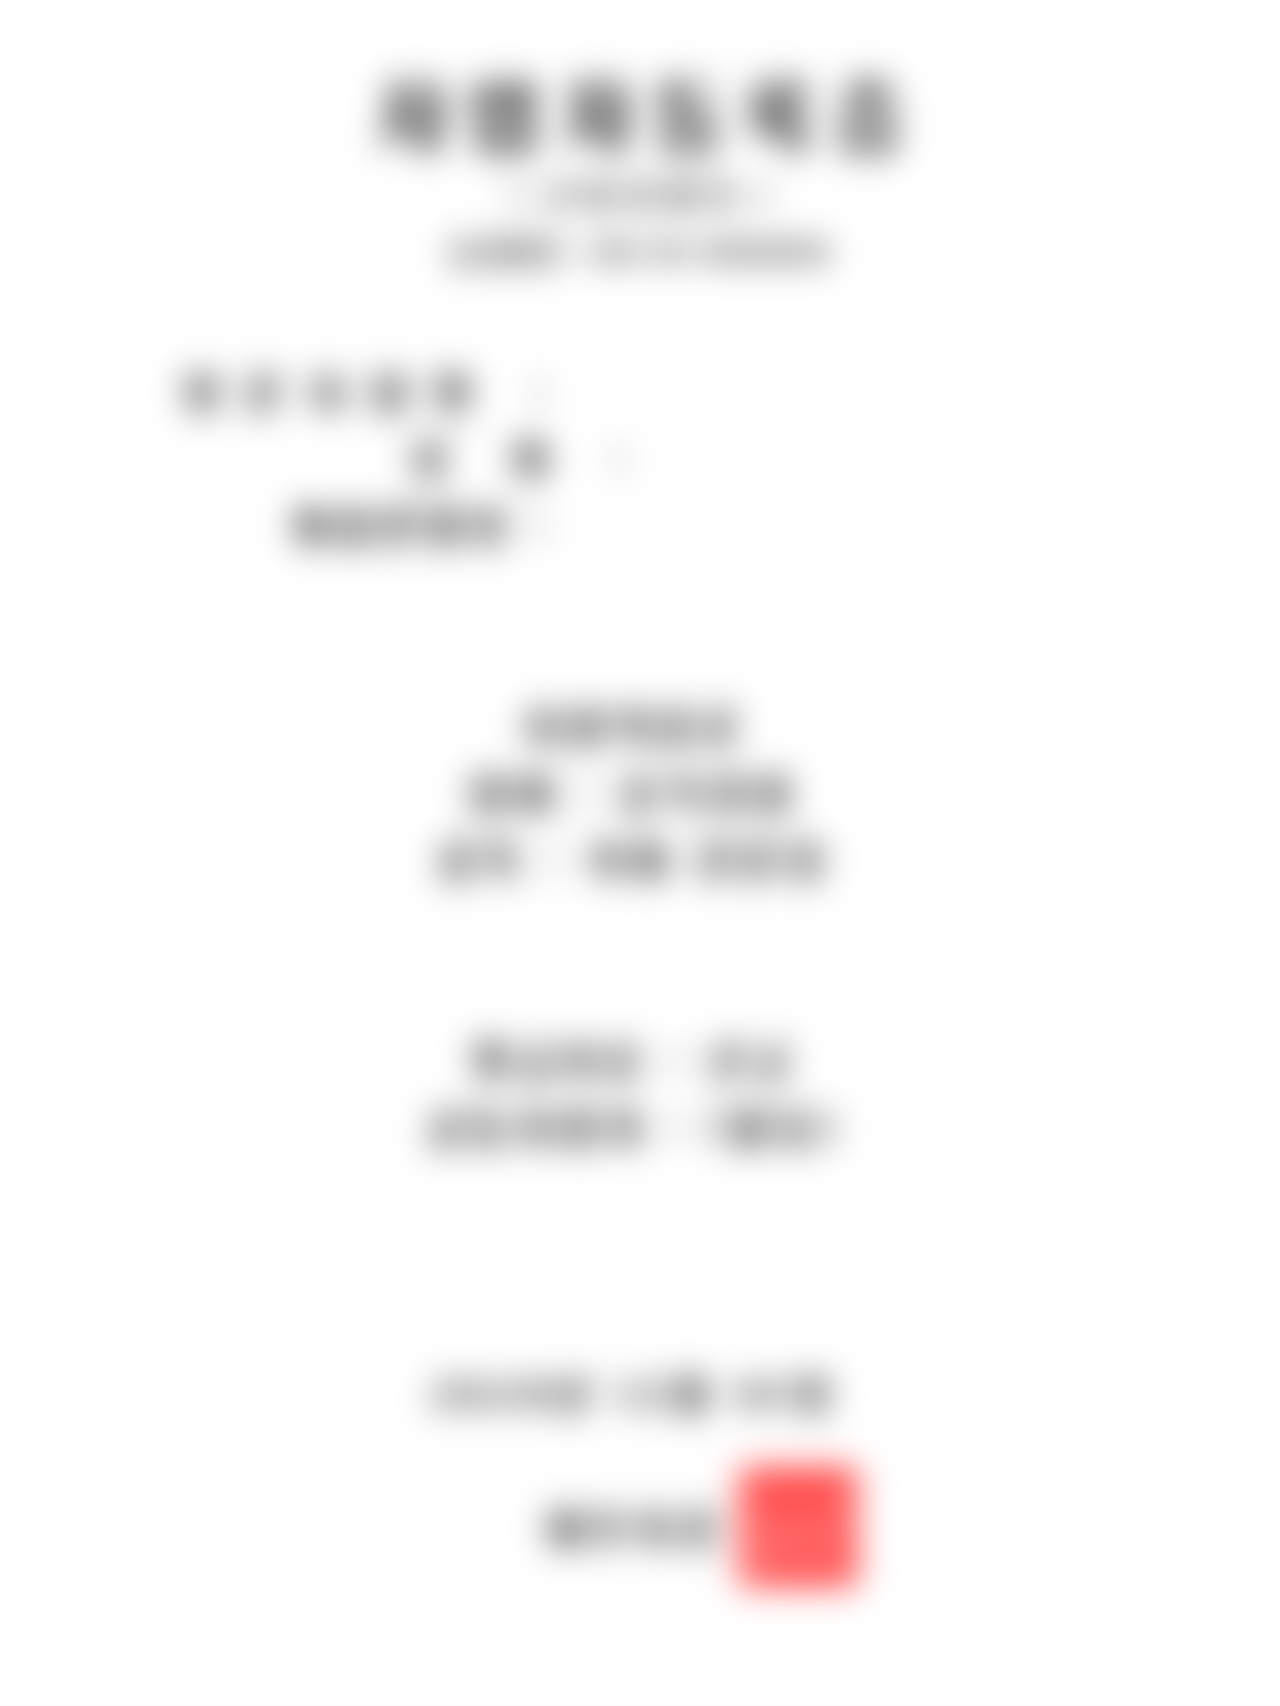
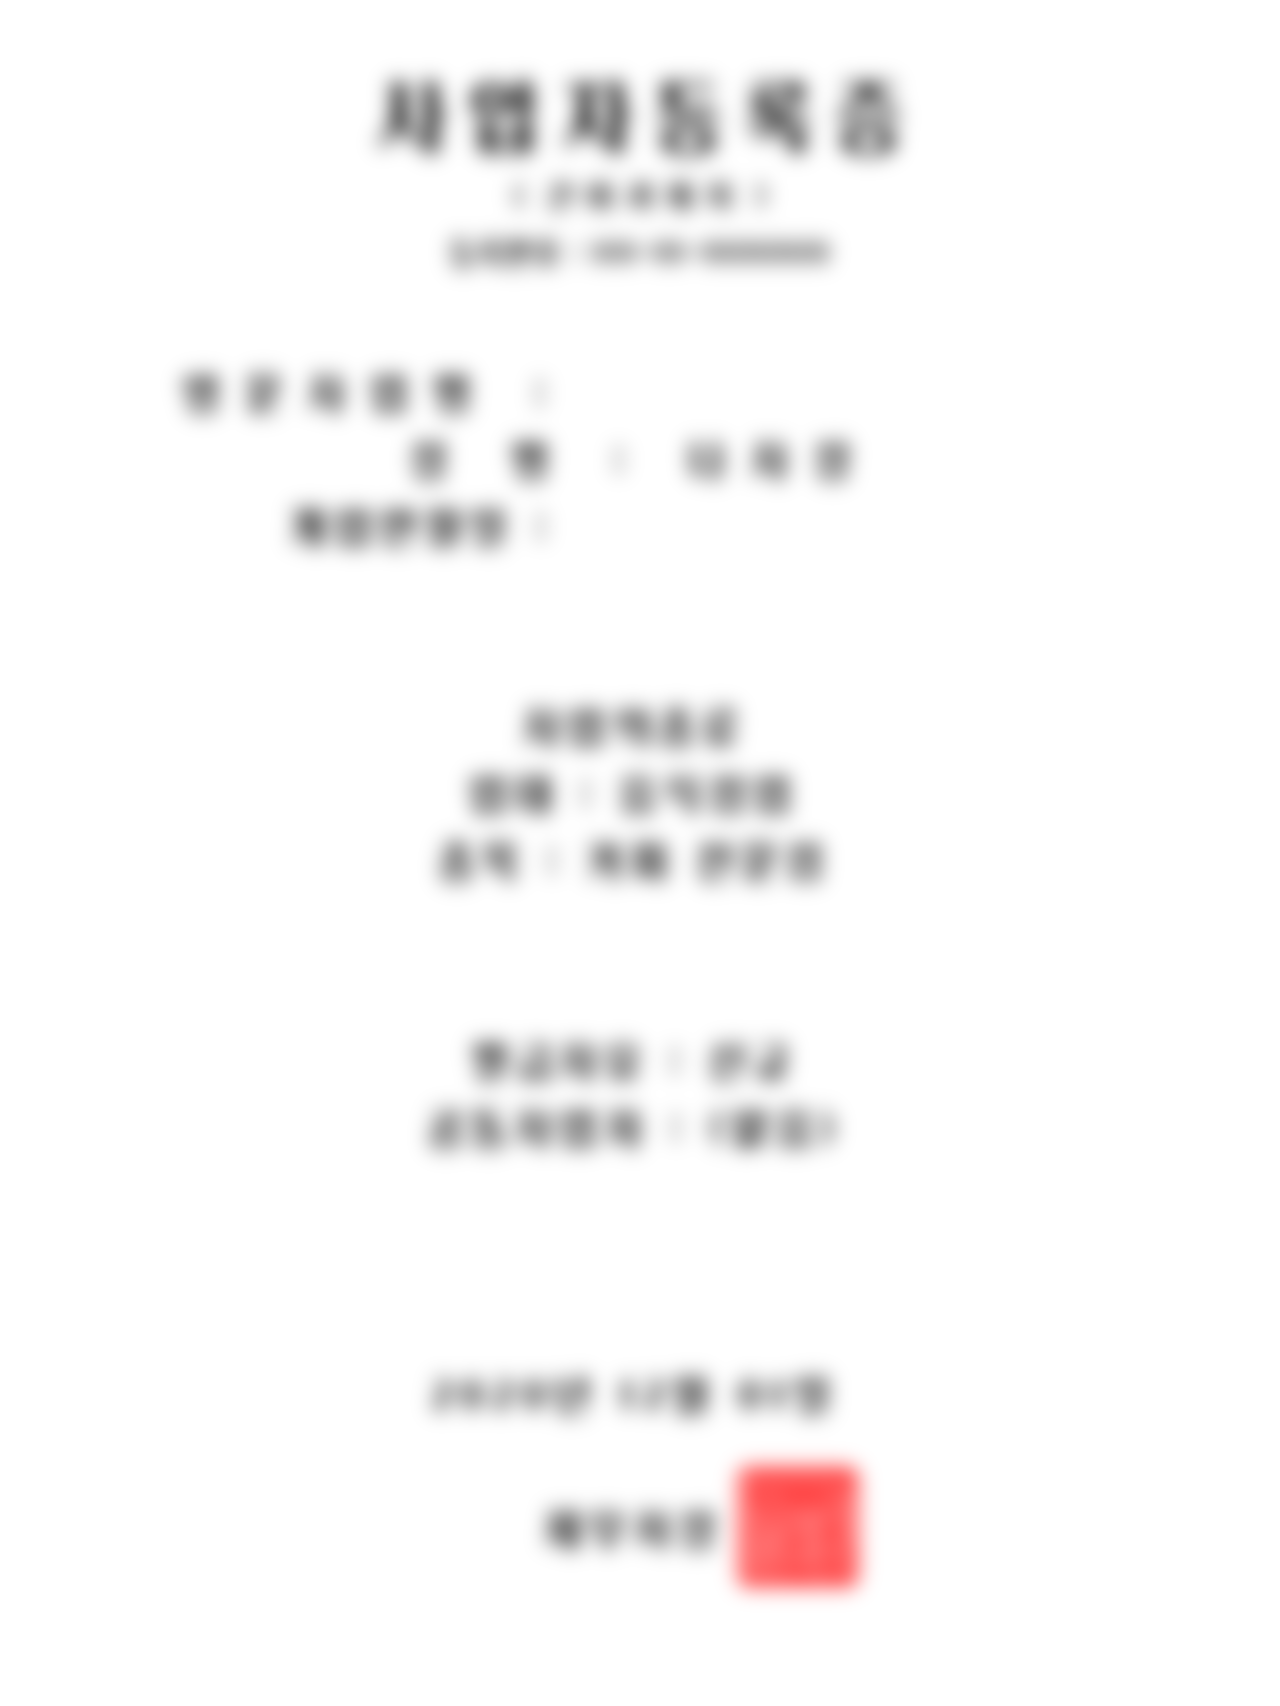
final 003

diff --git a/exam/exam-story-4.html b/exam/exam-story-4.html
@@ -26,12 +26,14 @@
                 시험지가 보관된 금고는 <b>최치열의 지문</b>으로만 열립니다.<br></br>
 
                 범인은 흔적을 남기기 마련입니다. <br>
-                지문을 채취했다면 분명 최치열의 자리를 다녀간 흔적이 있을 것입니다. <br></br>
+                지문을 채취했다면 분명 최치열의 자리를 다녀간 흔적 또는 본인의 자리에 단서가 있을 것입니다. <br></br>
                 
-                탐정수첩에 있는 용의자들의 특징과 사무실에 있는 단서를 통해 지문을 확보한 용의자들을 알아봐 주세요. <br></br>
+                제가 조사한 바로는 지문을 확보한 용의자는 <b>3명</b>입니다. <br></br>
 
                 지문을 확보했다면 <b>O로 표시</b>하고, <br>
-                확보하지 못했다면 <b>X로 표시</b>해 주세요. 
+                확보하지 못했다면 <b>X로 표시</b>해 주세요. <br></br>
+                
+                <span class="small-ref-text"><b>X표시가 되었다고 해서 용의선상에서 제외하시면 안됩니다. <br> 표를 전부 채워주세요.</b></span>
             </p>
 
             <div class="next-story-button">

diff --git a/laptop/laptop-story-8.html b/laptop/laptop-story-8.html
@@ -32,7 +32,7 @@
                 최백수는 제가 조사한 바로 피해자인 주인공과 마주치는 일이 많았다고 합니다.<br>
                 그녀가 주인공 씨가 자리를 비울 때마다 몰래 그의 노트북을 만지는 장면을 목격한 사람들이 다수 있는 것으로 확인했습니다. <br></br>
 
-                최백수의 독서실 자리에는 <b>두 개의 타임테이블</b>이 존재한다고 합니다. <br>
+                최백수의 독서실 자리에는 <b>두 개의 일정표</b>가 존재한다고 합니다. <br>
 
                 최백수의 알리바이를 찾아 비밀번호를 입력하세요.<br></br>
             </p>

diff --git a/laptop/laptop-story-1.html b/laptop/laptop-story-1.html
@@ -28,11 +28,11 @@
             </p>
 
             <p> 
-                카페 창고에는 주인만 열람할 수 있는 CCTV가 있습니다.<br>
+                <b>리슨카페의 창고</b>에는 주인만 열람할 수 있는 CCTV가 있습니다.<br>
                 이 CCTV를 확인하면 <b>범행 시간</b>을 확인할 수 있을 것입니다.<br></br>
 
                 카페 창고에 있는 물건들을 활용해 CCTV 파일을 <br> 
-                열 수 있는 아이디와 비밀번호를 찾으세요.  <br></br>
+                열 수 있는 <b>아이디와 비밀번호</b>를 찾으세요.  <br></br>
                 <br>
             </p>
 

diff --git a/exam/exam-story-3.html b/exam/exam-story-3.html
@@ -28,7 +28,9 @@
                 사무실에 있는 단서들을 이용해 용의자들의 종교가 <b>최치열과 일치하는지</b> 확인해 주세요. <br></br>
                 
                 일치한다면 <b>O로 표시</b>하고, <br>
-                일치하지 않는다면 <b>X로 표시</b>해 주세요. 
+                일치하지 않는다면 <b>X로 표시</b>해 주세요. <br></br>
+                
+                <span class="small-ref-text"><b>X표시가 되었다고 해서 용의선상에서 제외하시면 안됩니다. <br> 표를 전부 채워주세요.</b></span>
             </p>
 
             <div class="next-story-button">

diff --git a/spy/spy-story-1.html b/spy/spy-story-1.html
@@ -38,7 +38,7 @@
                 최보안은 L사의 전산팀 막내로 선배들의 업무와 온갖 잡일을 도맡아 하고 있습니다. <br>
                 정규직 전환을 약속받았으나 올해도 정규직 전환에 실패합니다.<br></br>
 
-                최보안이 다니는 <b>너 내 도도독 독서실</b>에서 최보안의 자리를 찾아주세요. <br> 
+                최보안이 다니는 <b>너 내 도도독 독서실</b>에서 최보안의 자리는 PAOLA 자리입니다. <br> 
                 거기에 있는 기업 정보 자료를 확인하여 단서를 찾아 비밀번호를 입력하세요. 
             </p>
 

diff --git a/exam/exam-story-1.html b/exam/exam-story-1.html
@@ -29,7 +29,9 @@
 
                 그 지도와 함께 있는 단서를 이용해서 마스터마인드 학원을 기준으로 <br> 
                 <b>3km 반경 내</b>에 거주하는 사람은 <b>O로 표시</b>하고, <br>
-                그 외 지역에 거주하는 사람은 <b>X로 표시</b>해 주세요. 
+                그 외 지역에 거주하는 사람은 <b>X로 표시</b>해 주세요. <br></br>
+                
+                <span class="small-ref-text"><b>X표시가 되었다고 해서 용의선상에서 제외하시면 안됩니다. <br> 표를 전부 채워주세요.</b></span>
 
             </p>
 

diff --git a/exam/exam-story-5.html b/exam/exam-story-5.html
@@ -29,7 +29,9 @@
                 예상 범행 시간에 <b>학원에 있었거나 방문한 용의자</b>가 있는지 알아봐 주세요. <br></br>
 
                 예상 범행 시간에 있었다면 <b>O로 표시</b>하고, <br>
-                없었다면 <b>X로 표시</b>해 주세요. 
+                없었다면 <b>X로 표시</b>해 주세요. <br></br>
+                
+                <span class="small-ref-text"><b>X표시가 되었다고 해서 용의선상에서 제외하시면 안됩니다. <br> 표를 전부 채워주세요.</b></span>
             </p>
 
             <div class="next-story-button">

diff --git a/exam/exam-story-2.html b/exam/exam-story-2.html
@@ -26,7 +26,9 @@
                 더 자세하게 추리를 하려면 용의자의 성별을 확인해 보는 것이 좋을 것 같습니다.<br></br>
 
                 탐정수첩에 제공해드린 <b>용의자 정보</b>를 확인하여 여자면 <b>O로 표시</b>하고, <br>
-                남자면 <b>X로 표시</b>해 주세요. 
+                남자면 <b>X로 표시</b>해 주세요. <br></br>
+                
+                <span class="small-ref-text"><b>X표시가 되었다고 해서 용의선상에서 제외하시면 안됩니다. <br> 표를 전부 채워주세요.</b></span>
 
             </p>
 

diff --git a/laptop/laptop-story-9.html b/laptop/laptop-story-9.html
@@ -23,8 +23,9 @@
         <section>
 
             <p> 
-                최백수는 주인공 <br></br>
-                
+                주인공은 노트북을 자신의 목숨같이 아꼈습니다. <br>
+                그 사실을 안 최백수는 주인공과 같이 노트북에 관심이 있는 척하며 <b>주인공과 가까워지려는 의도</b>로 접근한 것이었습니다. <br></br>
+
                 지금까지 획득한 단서들을 가지고 저에게 찾아와 공유해 주세요.<br></br>
 
                 제가 드리는 힌트를 가지고 확실한 범인을 찾으세요.<br></br>

diff --git a/laptop/laptop-story-7.html b/laptop/laptop-story-7.html
@@ -27,7 +27,7 @@
             </p>
             <img src="laptop-puzzle-assets/laptop-kim-message.png" class="evidence-images">
             <p> 
-                김학생은 범행이 일어나기 전, 타사에 합격되어 다음 주 중에 출근을 앞두고 있던 것으로 보입니다.<br></br>
+                김학생은 범행이 일어나기 전, <b>타사에 합격</b>되어 다음 주 중에 출근을 앞두고 있던 것으로 보입니다.<br></br>
 
                 김학생의 알리바이를 탐정수첩에 기록해두고 다음 용의자를 조사하러 갑시다.
             </p>

diff --git a/spy/spy-story-3.html b/spy/spy-story-3.html
@@ -34,7 +34,8 @@
                 대신 유독 <b>리슨카페</b>에서 여러 사람들과 많은 시간을 보내는 것을 목격했습니다.<br></br>
                 리슨카페에서 어떤 일이 벌어지고 있는지 밝혀주세요. <br></br>
             </p>
-            
+            <span class="small-ref-text"> 카페 창고에 있는 달력과 명함들을 자세히 살펴보세요.</span>
+
             <div class="userInput">
                 <div class="spy-input">
                     <input type="text" id="passcodeSs3" class="spy-input" maxlength="3">

diff --git a/laptop/laptop-story-2.html b/laptop/laptop-story-2.html
@@ -26,6 +26,13 @@
                 <b>1. 범행시간 확인 </b><br>
             </p>
 
+            <p> 
+                특정 시간에만 CCTV 파일이 사라졌습니다.<br>
+                범인이 흔적을 지운 것으로 판단됩니다.<br></br>
+
+                <b>탐정 수첩에 알아낸 범행시간을 기록해두고</b> 용의자를 조사하러 갑시다.<br></br>
+            </p>
+
             <img src="laptop-puzzle-assets/laptop-cctv-evidence.png" class="evidence-images">
 
             <div class="next-story-button">
